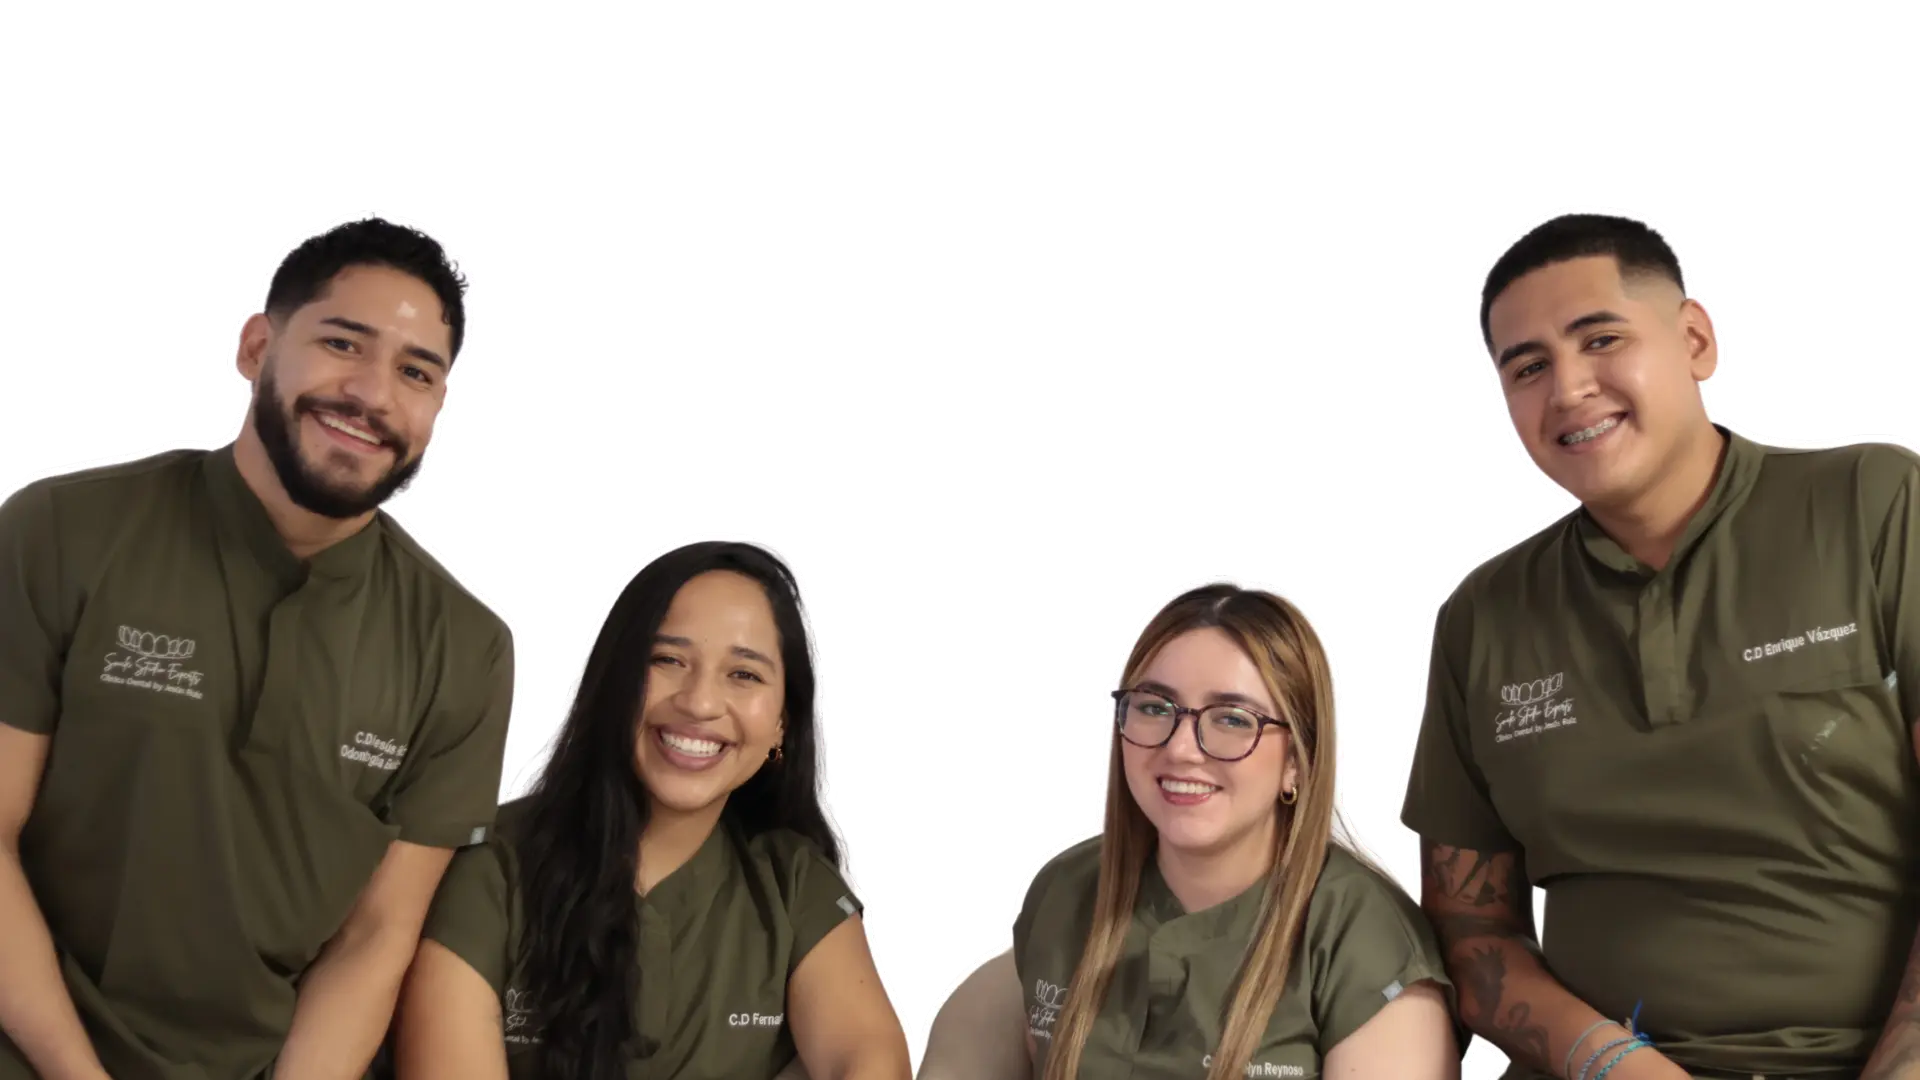
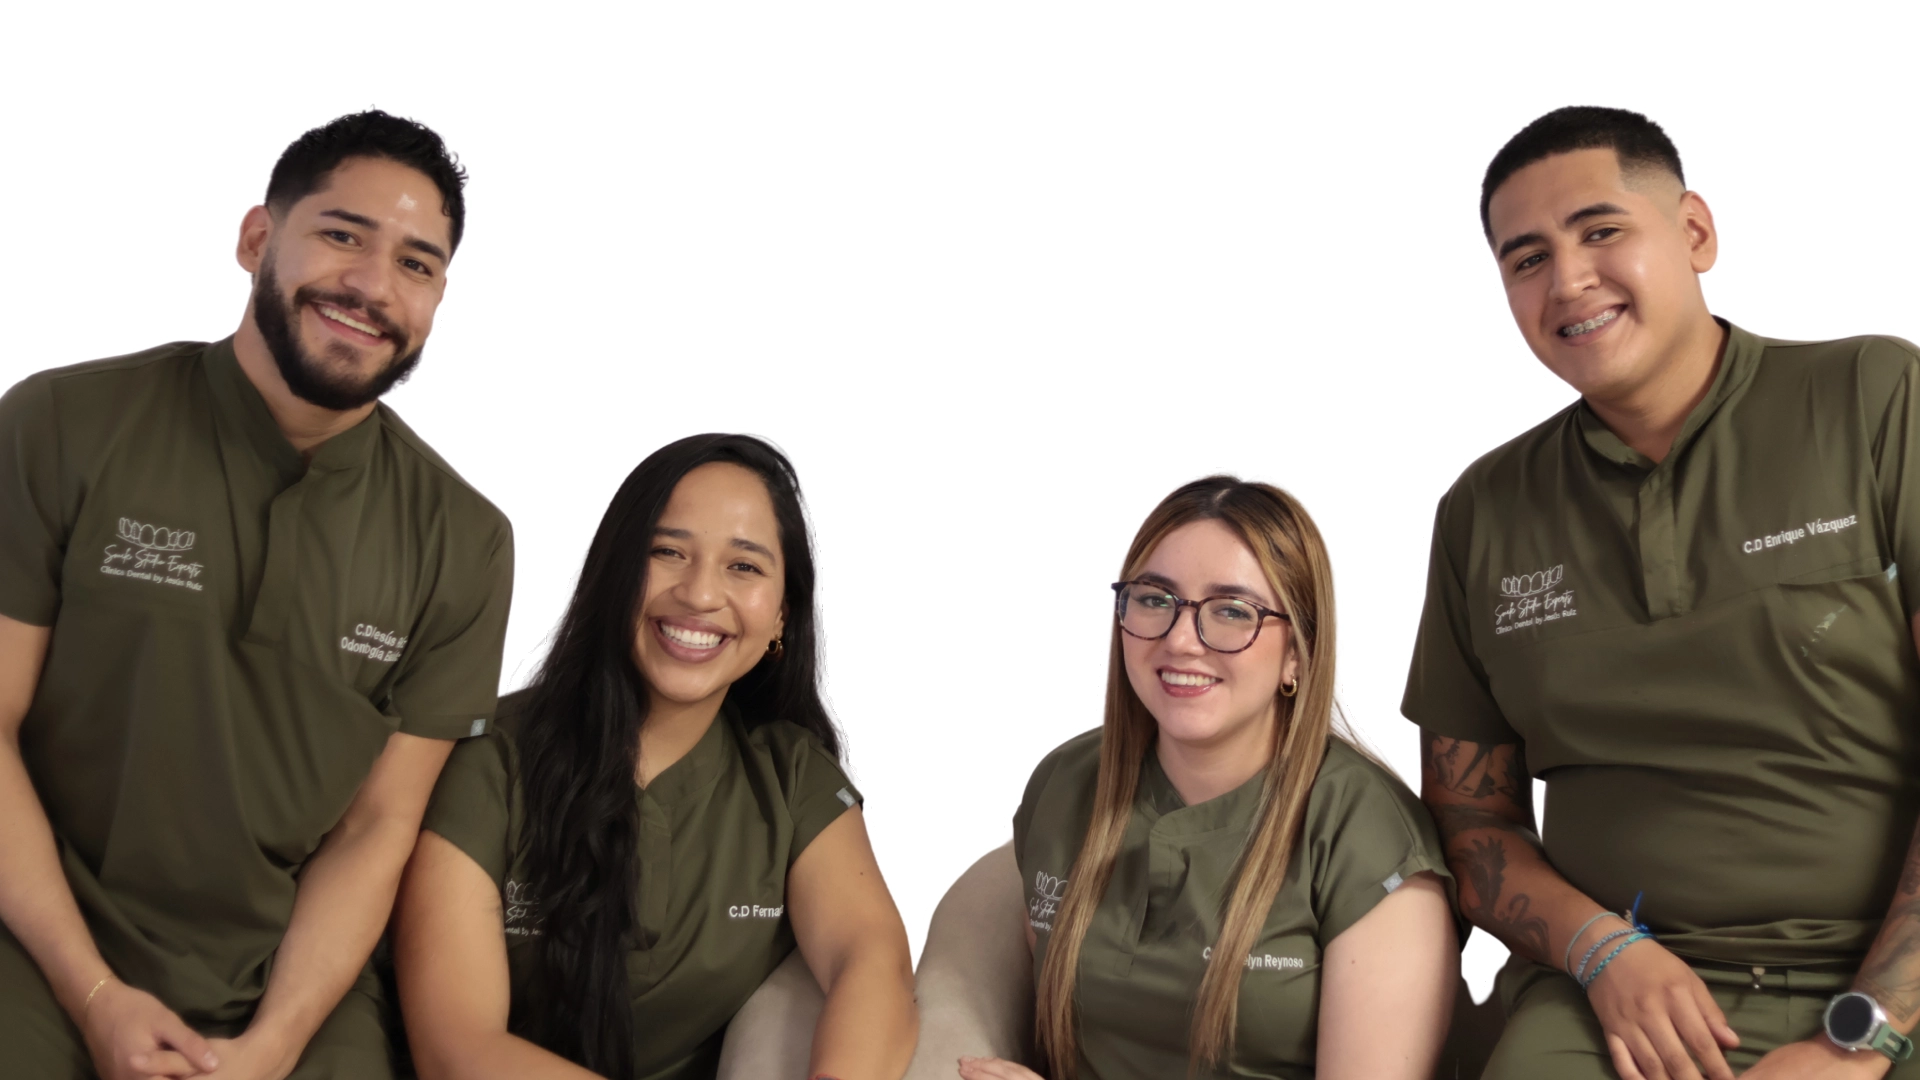
feat: remove green gradient overlay and lower hero team image 6%

diff --git a/src/components/Hero/Hero.tsx b/src/components/Hero/Hero.tsx
@@ -17,7 +17,9 @@ const Hero = () => {
   useEffect(() => {
     if (!barRef.current) return
     const observer = new IntersectionObserver(
-      ([entry]) => { if (entry.isIntersecting) setStatsActive(true) },
+      ([entry]) => {
+        if (entry.isIntersecting) setStatsActive(true)
+      },
       { threshold: 0.1 }
     )
     observer.observe(barRef.current)
@@ -26,52 +28,129 @@ const Hero = () => {
 
   useEffect(() => {
     const ctx = gsap.context(() => {
-      gsap.fromTo(imgRef.current, { opacity: 0, scale: 1.04 }, { opacity: 1, scale: 1, duration: 1.2, ease: 'power3.out', scrollTrigger: { trigger: sectionRef.current, start: 'top 95%' } })
+      gsap.fromTo(
+        imgRef.current,
+        { opacity: 0, scale: 1.04 },
+        {
+          opacity: 1,
+          scale: 1,
+          duration: 1.2,
+          ease: 'power3.out',
+          scrollTrigger: { trigger: sectionRef.current, start: 'top 95%' }
+        }
+      )
 
-      gsap.timeline({ scrollTrigger: { trigger: sectionRef.current, start: 'top 95%' } })
-        .fromTo(tagRef.current, { y: 20, opacity: 0 }, { y: 0, opacity: 1, duration: 0.6, ease: 'power3.out' })
-        .fromTo(titleRef.current, { y: 50, opacity: 0 }, { y: 0, opacity: 1, duration: 0.9, ease: 'power3.out' }, '-=0.4')
-        .fromTo(subRef.current, { y: 30, opacity: 0 }, { y: 0, opacity: 1, duration: 0.7, ease: 'power3.out' }, '-=0.4')
-        .fromTo(ctaRef.current, { y: 20, opacity: 0 }, { y: 0, opacity: 1, duration: 0.6, ease: 'power3.out' }, '-=0.3')
+      gsap
+        .timeline({
+          scrollTrigger: { trigger: sectionRef.current, start: 'top 95%' }
+        })
+        .fromTo(
+          tagRef.current,
+          { y: 20, opacity: 0 },
+          { y: 0, opacity: 1, duration: 0.6, ease: 'power3.out' }
+        )
+        .fromTo(
+          titleRef.current,
+          { y: 50, opacity: 0 },
+          { y: 0, opacity: 1, duration: 0.9, ease: 'power3.out' },
+          '-=0.4'
+        )
+        .fromTo(
+          subRef.current,
+          { y: 30, opacity: 0 },
+          { y: 0, opacity: 1, duration: 0.7, ease: 'power3.out' },
+          '-=0.4'
+        )
+        .fromTo(
+          ctaRef.current,
+          { y: 20, opacity: 0 },
+          { y: 0, opacity: 1, duration: 0.6, ease: 'power3.out' },
+          '-=0.3'
+        )
 
-      gsap.fromTo(barRef.current, { y: 30, opacity: 0 }, { y: 0, opacity: 1, duration: 0.7, ease: 'power3.out', scrollTrigger: { trigger: barRef.current, start: 'top 95%' } })
+      gsap.fromTo(
+        barRef.current,
+        { y: 30, opacity: 0 },
+        {
+          y: 0,
+          opacity: 1,
+          duration: 0.7,
+          ease: 'power3.out',
+          scrollTrigger: { trigger: barRef.current, start: 'top 95%' }
+        }
+      )
     }, sectionRef)
 
     return () => ctx.revert()
   }, [])
 
   return (
-    <section ref={sectionRef} id="inicio" className="relative md:min-h-screen bg-green overflow-hidden flex flex-col scroll-mt-24">
-      <div className="absolute inset-0 z-0">
-        <img ref={imgRef} src={team} alt="Nuestro equipo" className="hidden md:block w-full h-full object-cover"
-          style={{ objectPosition: '50% 0%' }} />
+    <section
+      ref={sectionRef}
+      id="inicio"
+      className="relative md:min-h-screen bg-green overflow-hidden flex flex-col scroll-mt-24"
+    >
+      <div className="absolute inset-0 z-0 overflow-hidden">
+        <img
+          ref={imgRef}
+          src={team}
+          alt="Nuestro equipo"
+          className="hidden md:block w-full h-full object-cover"
+          style={{ marginTop: '6%' }}
+        />
       </div>
 
-      <div className="absolute inset-0 z-10 bg-linear-to-b from-green/90 via-green/65 via-45% to-green/20" />
-
       <div className="relative z-20 flex-none md:flex-1 flex flex-col items-center justify-start text-center px-6 md:px-10 pt-32 md:pt-32 lg:pt-44">
-        <div ref={tagRef} className="inline-flex items-center gap-2 px-4 py-1.5 rounded-full border border-gold/40 bg-gold/10 mb-5 md:mb-6">
-          <span className="text-gold text-sm md:text-md font-semibold tracking-[0.2em] uppercase">¿Quiénes somos?</span>
+        <div
+          ref={tagRef}
+          className="inline-flex items-center gap-2 px-4 py-1.5 rounded-full border border-gold/40 bg-gold/10 mb-5 md:mb-6"
+        >
+          <span className="text-gold text-sm md:text-md font-semibold tracking-[0.2em] uppercase">
+            ¿Quiénes somos?
+          </span>
         </div>
 
-        <h1 ref={titleRef} className="display-title text-white mb-5 md:mb-6"
-          style={{ fontSize: 'clamp(1.75rem, 4.5vw, 3.5rem)', lineHeight: '1.05' }}>
+        <h1
+          ref={titleRef}
+          className="display-title text-white mb-5 md:mb-6"
+          style={{
+            fontSize: 'clamp(1.75rem, 4.5vw, 3.5rem)',
+            lineHeight: '1.05'
+          }}
+        >
           Smile <span className="text-gold">Studio</span> Experts
         </h1>
 
-        <p ref={subRef} className="text-white/90 md:max-w-xl mb-2 text-center"
-          style={{ fontSize: 'clamp(.9rem, 1.30vw, 1.35rem)', lineHeight: '1.6' }}>
-          Somos un equipo enfocado en la estética y salud dental, creando sonrisas naturales y armónicas con tratamientos personalizados y el uso de tecnología y materiales de calidad para lograr resultados que se vean bien y duren en el tiempo.
+        <p
+          ref={subRef}
+          className="text-white/90 md:max-w-xl mb-2 text-center"
+          style={{
+            fontSize: 'clamp(.9rem, 1.30vw, 1.35rem)',
+            lineHeight: '1.6'
+          }}
+        >
+          Somos un equipo enfocado en la estética y salud dental, creando
+          sonrisas naturales y armónicas con tratamientos personalizados y el
+          uso de tecnología y materiales de calidad para lograr resultados que
+          se vean bien y duren en el tiempo.
         </p>
 
-        <div ref={ctaRef} className="flex flex-wrap gap-4 justify-center mt-1 pb-10 md:pb-0">
+        <div
+          ref={ctaRef}
+          className="flex flex-wrap gap-4 justify-center mt-1 pb-10 md:pb-0"
+        >
           <button
             onClick={() => {
               const lenis = window.__lenis
-              if (lenis) lenis.scrollTo('#contacto', { offset: 0, duration: 1.8 })
-              else document.getElementById('contacto')?.scrollIntoView({ behavior: 'smooth' })
+              if (lenis)
+                lenis.scrollTo('#contacto', { offset: 0, duration: 1.8 })
+              else
+                document
+                  .getElementById('contacto')
+                  ?.scrollIntoView({ behavior: 'smooth' })
             }}
-            className="inline-flex items-center gap-2 px-9 py-4 rounded-full bg-gold text-black text-md font-semibold tracking-wide hover:bg-gold-light transition-colors duration-300">
+            className="inline-flex items-center gap-2 px-9 py-4 rounded-full bg-gold text-black text-md font-semibold tracking-wide hover:bg-gold-light transition-colors duration-300"
+          >
             Agendar cita
           </button>
         </div>
@@ -80,11 +159,18 @@ const Hero = () => {
       <div ref={barRef} className="relative z-20 w-full bg-gold">
         <div className="w-full px-6 py-2 md:py-3 grid grid-cols-3 items-center divide-x-0 md:divide-x-0">
           {STATS.map(s => (
-            <div key={s.label} className="flex flex-col items-center justify-center gap-0.5 py-2">
+            <div
+              key={s.label}
+              className="flex flex-col items-center justify-center gap-0.5 py-2"
+            >
               <span className="display-name text-green-dark font-black text-lg sm:text-2xl md:text-4xl tabular-nums leading-none">
-                {s.prefix}<AnimatedNumber target={s.value} active={statsActive} />{s.suffix}
+                {s.prefix}
+                <AnimatedNumber target={s.value} active={statsActive} />
+                {s.suffix}
               </span>
-              <span className="font-semibold text-white text-xs lg:text-lg tracking-[0.15em] uppercase text-center">{s.label}</span>
+              <span className="font-semibold text-white text-xs lg:text-lg tracking-[0.15em] uppercase text-center">
+                {s.label}
+              </span>
             </div>
           ))}
         </div>
